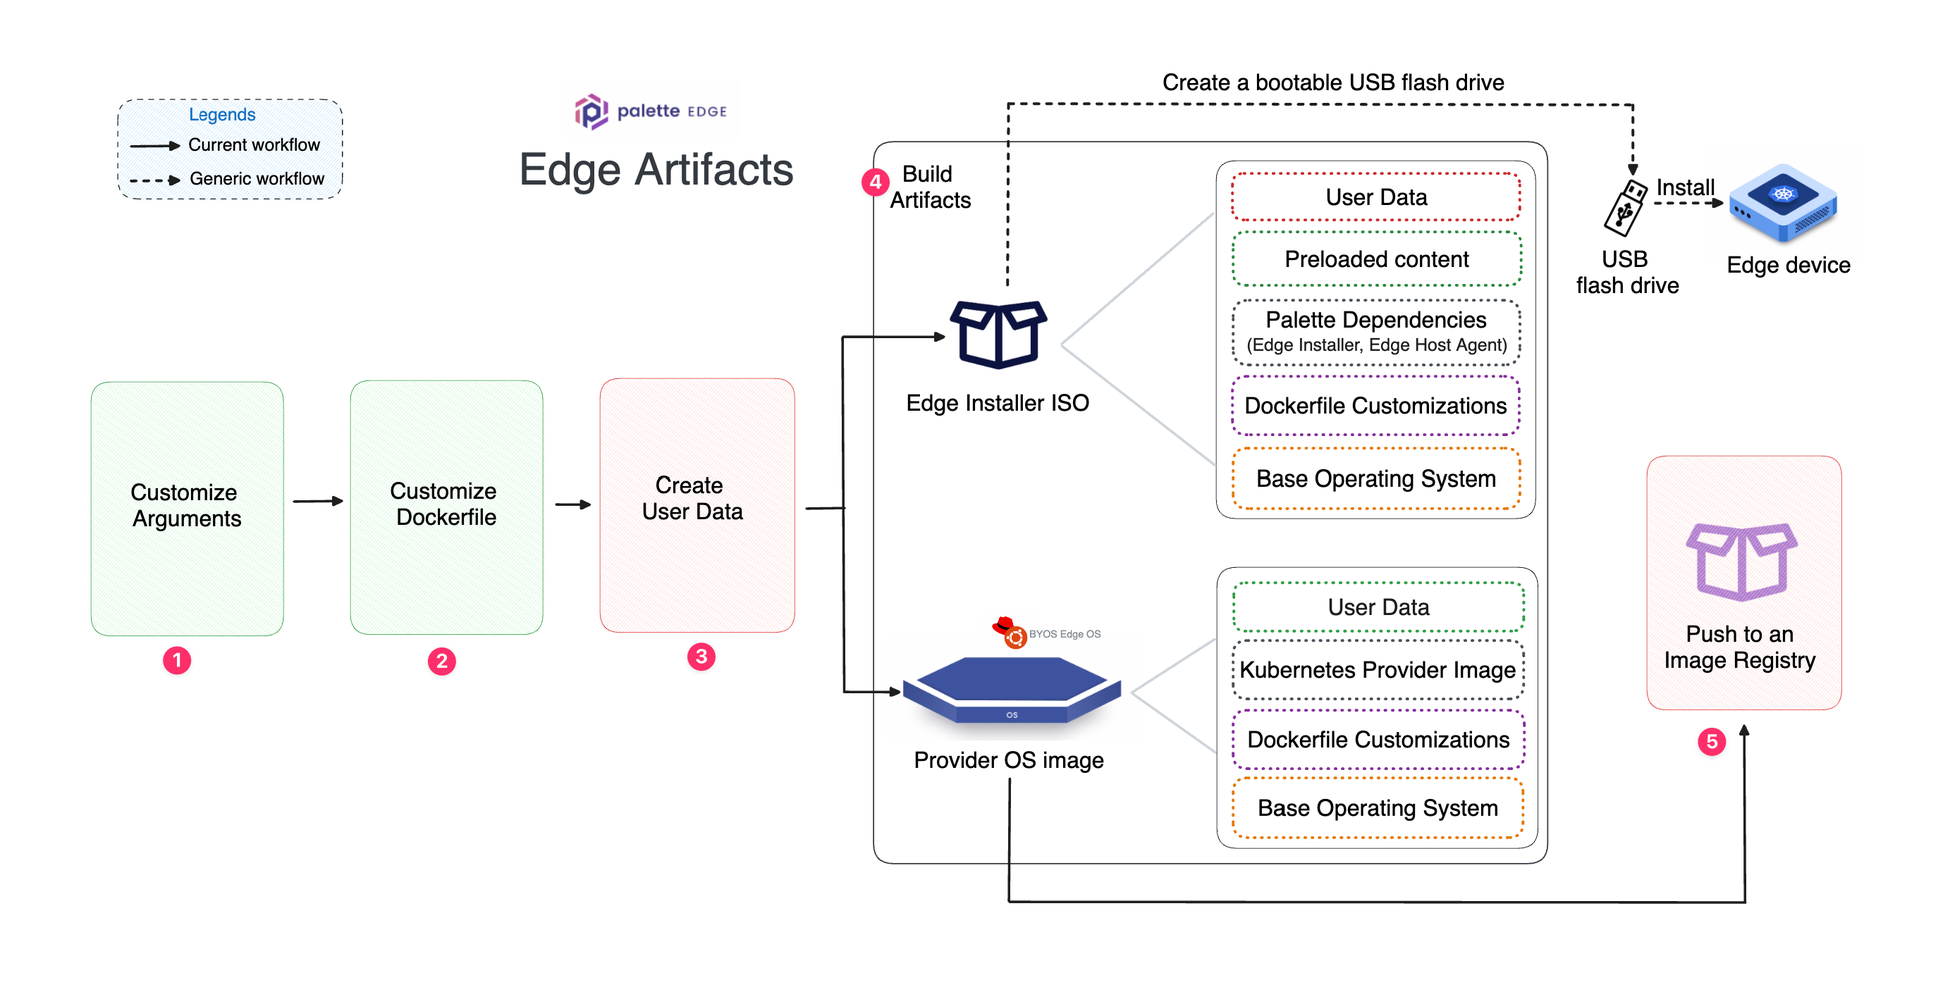
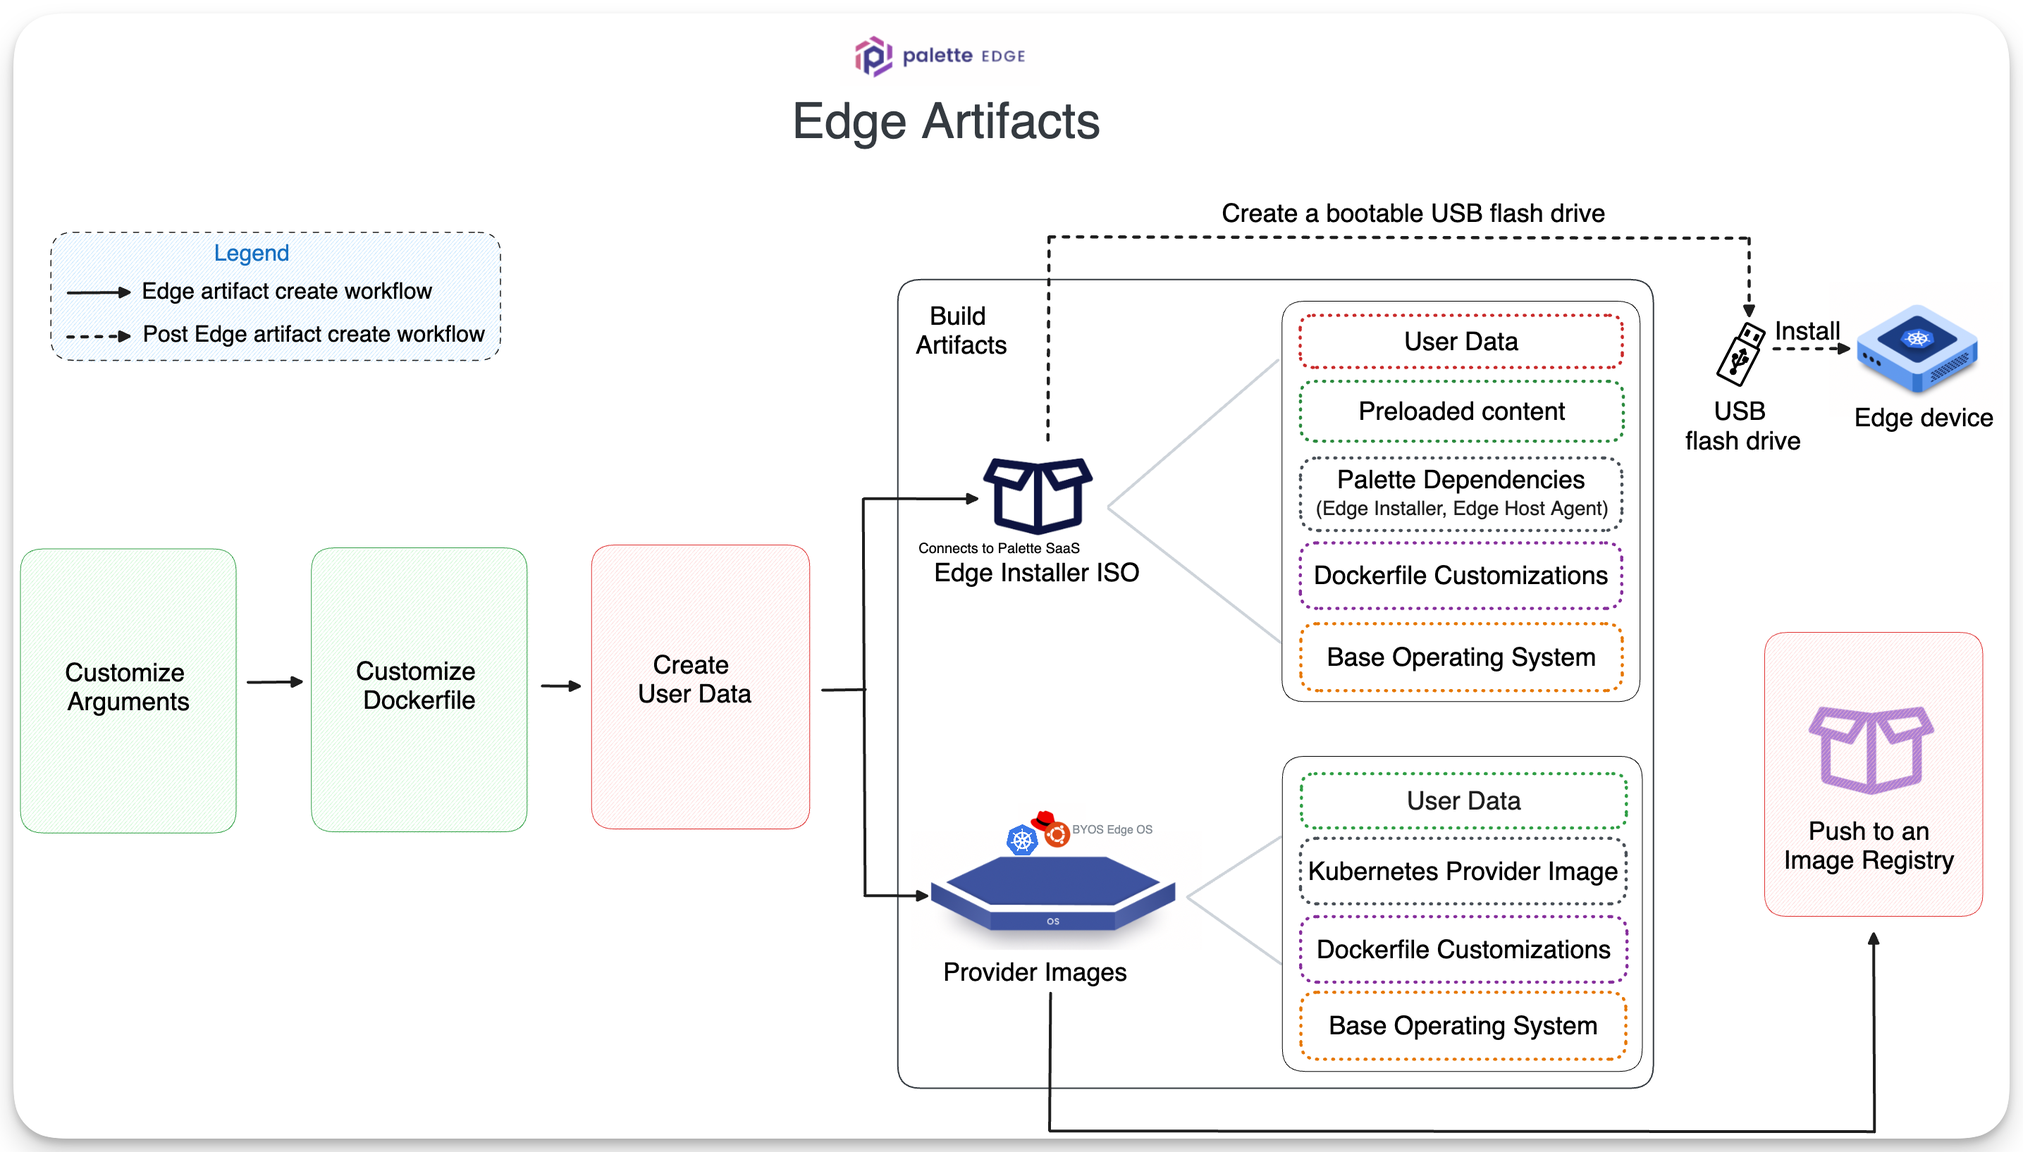
docs: concept clarification and language fixes

diff --git a/content/docs/04-clusters/03-edge/04-edgeforge-workflow/03.5-palette-canvos.md b/content/docs/04-clusters/03-edge/04-edgeforge-workflow/03.5-palette-canvos.md
@@ -1,7 +1,7 @@
 ---
 title: "Build Edge Artifacts"
 metaTitle: "Build Edge Artifacts"
-metaDescription: "Learn how to build Edge artifacts, such as the Edge Installer ISO and provider OS images using Spectro Cloud's CanvOS utility."
+metaDescription: "Learn how to build Edge artifacts, such as the Edge Installer ISO and provider images using Spectro Cloud's CanvOS utility."
 icon: ""
 hideToC: false
 fullWidth: false
@@ -22,13 +22,13 @@ Palette's Edge solution requires Edge hosts to be ready with the required depend
 * **Edge installer ISO image** - This bootable ISO image installs the necessary dependencies and configurations on a bare host machine. During installation, the host machine will boot from the Edge installer ISO, partition the disk, copy the image content to the disk, install the Palette Edge host agent and metadata, and perform several configuration steps. These configuration steps include registering the host with Palette, setting user privileges, and configuring network or security settings. 
 <br />
 
-* **Provider OS image** - This is a [Kairos](https://kairos.io/)-based image. This image installs an immutable Operating System (OS) and software dependencies compatible with a specific Kubernetes version at runtime, i.e., during the cluster deployment. A provider OS image is used in the OS layer while creating a cluster profile. 
+* **Provider Images** - These are [Kairos](https://kairos.io/)-based images containing the OS and the desired Kubernetes versions. These images install an immutable Operating System (OS) and software dependencies compatible with a specific Kubernetes version at runtime, i.e., during the cluster deployment. A provider image is used in the OS and the Kubernetes layer when creating a cluster profile. 
 
 
-In this guide, you will use Spectro Cloud's utility, [CanvOS](https://github.com/spectrocloud/CanvOS/blob/main/README.md), to build an Edge installer ISO image and multiple provider OS images for all the Palette-supported Kubernetes versions. It builds multiple provider OS images, so you can use either one that matches the Kubernetes version in your cluster profile. This guide assumes that your Palette supports K3s v1.24.6 and K3s v1.25.2, as an example, for deploying Edge clusters.  
+In this guide, you will use the utility, [CanvOS](https://github.com/spectrocloud/CanvOS/blob/main/README.md), to build an Edge installer ISO image and provider images for all the Palette-supported Kubernetes versions. The utility builds multiple provider images, so you can use either one that matches the desired Kubernetes version you want to use with your cluster profile.
 
 
-The diagram below shows the high-level steps to building the Edge artifacts and pushing the provider OS images to an image registry.
+The diagram below shows the high-level steps to building the Edge artifacts and pushing the provider images to an image registry.
 
 
 
@@ -37,16 +37,16 @@ The diagram below shows the high-level steps to building the Edge artifacts and 
 
 This guide presents two workflows - Basic and Advanced. 
 
-The basic workflow has minimal customizations and offers a quick start to build Edge artifacts. This workflow builds an Ubuntu based Edge installer ISO and provider OS images. It will also push the provider OS images to the default image registry, [ttl.sh](https://ttl.sh/). 
+The basic workflow has minimal customizations and offers a quick start to build Edge artifacts. This workflow builds an Ubuntu based Edge installer ISO and provider images. You will also push the provider images to the default image registry, [ttl.sh](https://ttl.sh/). 
 
-The advanced workflow uses more customization options. This workflow builds an openSUSE based Edge installer ISO and provider OS images. It will push the provider OS images to your Docker Hub image registry. 
+The advanced workflow uses more customization options. This workflow builds an openSUSE based Edge installer ISO and provider images. You will push the provider images to your Docker Hub image registry. 
 
 You can follow either of the workflows below that suits your use case.
 <br />
 
 <Tabs>
 
-<Tabs.TabPane tab="Basic" key="basic_create_artifacts">
+<Tabs.TabPane tab="Basic" key="basic_create_artifacts" >
 <br />
 
 ## Prerequisites
@@ -54,7 +54,7 @@ You can follow either of the workflows below that suits your use case.
 To complete this basic guide, you will need the following items:
 <br/>
 
-* A physical or virtual Linux machine with *AMD64* (also known as *x86_64*) processor architecture. You can issue the following command in the terminal to check your processor architecture. 
+* A physical or virtual Linux machine with *AMD64* (also known as *x86_64*) processor architecture to build the Edge artifacts. You can issue the following command in the terminal to check your processor architecture. 
   <br/>
 
   ```bash
@@ -130,7 +130,7 @@ Use the following instructions on your Linux machine to create all the required 
   <br />
 
 
-6. Issue the command below to save a custom image tag for the provider OS images in the `CUSTOM_TAG` variable. This guide uses `palette-learn` as an example. However, you can assign any lowercase and alphanumeric string to the `CUSTOM_TAG` variable. 
+6. Issue the command below to assign an image tag value that will be used when creating the provider images. This guide uses the value `palette-learn` as an example. However, you can assign any lowercase and alphanumeric string to the `CUSTOM_TAG` variable. 
 <br />
 
   ```bash
@@ -139,7 +139,7 @@ Use the following instructions on your Linux machine to create all the required 
   <br />
 
 7. Issue the command below to create the **.arg** file with the custom tag. It uses the default values for the remaining variables. You can refer to the existing **.arg.template** file to learn more about the available customizable variables.  
-<br />
+<br /> 
 
   ```bash
   cat << EOF > .arg
@@ -161,7 +161,7 @@ Use the following instructions on your Linux machine to create all the required 
   ```
   <br />
 
-8. Issue the command below to save your tenant registration token to a local variable. Replace `[your_token_here]` with your actual registration token. 
+8. Issue the command below to save your tenant registration token to an environment variable. Replace `[your_token_here]` with your actual registration token. 
 <br />
 
   ```bash
@@ -238,7 +238,7 @@ Use the following instructions on your Linux machine to create all the required 
   <br />
 
 
-11. List the Docker images to review the provider OS images created. By default, provider images for all the Palette's Edge-supported Kubernetes versions are created. You can identify the provider images by reviewing the image tag value you used in the  **.arg** file's `CUSTOM_TAG` variable. 
+11. List the Docker images to review the provider images created. By default, provider images for all the Palette's Edge-supported Kubernetes versions are created. You can identify the provider images by reviewing the image tag value you used in the  **.arg** file's `CUSTOM_TAG` variable. 
 <br />
 
   ```shell
@@ -254,7 +254,7 @@ Use the following instructions on your Linux machine to create all the required 
   <br />
 
 
-12. To use the provider OS images in your cluster profile, push them to the image registry mentioned in the **.arg** file. The current example and default behavior uses the [ttl.sh](https://ttl.sh/) image registry. This image registry is free to use and does not require a sign-up. Images pushed to *ttl.sh* are ephemeral and will expire after the 24 hrs time limit.  Use the following commands to push the provider OS image to the *ttl.sh* image registry.  
+12. To use the provider images in your cluster profile, push them to the image registry mentioned in the **.arg** file. The current example and default behavior uses the [ttl.sh](https://ttl.sh/) image registry. This image registry is free to use and does not require a sign-up. Images pushed to *ttl.sh* are ephemeral and will expire after the 24 hrs time limit.  Use the following commands to push the provider images to the *ttl.sh* image registry.  
   <br />
 
   ```bash
@@ -265,15 +265,16 @@ Use the following instructions on your Linux machine to create all the required 
 
   <WarningBox>
 
-  As a reminder, [ttl.sh](https://ttl.sh/) is a short-lived image registry. If you do not use these provider OS images in your cluster profile within 24 hours of pushing to *ttl.sh*, they will expire and must be re-pushed. Refer to the Advanced workflow in the current guide to learn how to use another registry, such as Docker Hub, and tag the docker images accordingly.
+  As a reminder, [ttl.sh](https://ttl.sh/) is a short-lived image registry. If you do not use these provider images in your cluster profile within 24 hours of pushing to *ttl.sh*, they will expire and must be re-pushed. Refer to the Advanced workflow in the current guide to learn how to use another registry, such as Docker Hub, and tag the docker images accordingly.
 
   </WarningBox>
   <br />
 
 
-13. After pushing the provider images to the image registry, switch to Palette to create a cluster profile, and add the [BYOS Edge OS](/integrations/byoos) pack to the OS layer. Add the following custom content within your OS layer configuration's `options` attribute so that the cluster profile can pull the provider OS image from the image registry. 
+13. After pushing the provider images to the image registry, open your web browser and navigate to [Palette](https://console.spectrocloud.com) to create a cluster profile, and add the [BYOS Edge OS](/integrations/byoos) pack to the OS layer. Add the following custom content within your OS layer configuration's `options` attribute so that the cluster profile can pull the provider image from the image registry. 
 
   The following `system.xxxxx` attribute values should be as same as what you defined in the **.arg** file earlier. If you used customized arguments in the **.arg** file to build the Edge artifacts, change these attributes' values, as applicable to you, before using them in your cluster profile.
+
   <br />
 
   ```yaml
@@ -286,12 +287,19 @@ Use the following instructions on your Linux machine to create all the required 
     system.customTag: palette-learn
     system.osVersion: 22
   ```
-  The following screenshot illustrates how to incorporate custom content into an OS layer of a cluster profile using the BYOS Edge OS pack.
+  The screenshot below shows you how to reference a provider image in a cluster profile by using the utility build output with the BYOOS pack.
 
   ![Screenshot of a sample cluster profile's OS layer ](/tutorials/palette-canvos/clusters_edge_palette-canvos_edit_profile.png)
   <br />
 
-14. Add the Kubernetes layer to your cluster profile after updating the OS layer, and choose the **Palette Optimized K3s** pack. The current build process created provider OS images compatible with two Kubernetes versions - K3s v1.24.6 and K3s v1.25.2. Therefore, choose one of these versions for the **Palette Optimized K3s** pack. 
+
+  <InfoBox>
+
+  The BYOOS pack's `system.uri` variable references the Kubernetes version selected in the cluster profile through the usage of the `{{ .spectro.system.kubernetes.version }}` [macro](/clusters/cluster-management/macros). This is how the provider images you created and pushed to a registry are tied to the OS and Kubernetes choices you selected or referenced in the **.arg** file.
+
+  </InfoBox>
+
+14. Add the Kubernetes layer to your cluster profile after updating the OS layer, and choose the **Palette Optimized K3s** pack. The current build process created provider images compatible with two Kubernetes versions - K3s v1.24.6 and K3s v1.25.2. Therefore, choose one of these versions for the **Palette Optimized K3s** pack. 
 
 
 15. Lastly, add the network layer to your cluster profile, and choose a Container Network Interface (CNI) pack that best fits your needs, such as Calico, Flannel, Cilium, or Custom CNI. 
@@ -319,7 +327,7 @@ You can validate the ISO image by creating a bootable USB flash drive using any 
 
 </Tabs.TabPane>
 
-<Tabs.TabPane tab="Advanced" key="advanced_create_artifacts">
+<Tabs.TabPane tab="Advanced" key="advanced_create_artifacts" identifier="advanced">
 <br />
 
 ## Prerequisites
@@ -327,7 +335,7 @@ You can validate the ISO image by creating a bootable USB flash drive using any 
 To complete this advanced guide, you will need the following items:
 <br />
 
-* A physical or virtual Linux machine with *AMD64* (also known as *x86_64*) processor architecture. You can issue the following command in the terminal to check your processor architecture. 
+* A physical or virtual Linux machine with *AMD64* (also known as *x86_64*) processor architecture to build the Edge artifacts. You can issue the following command in the terminal to check your processor architecture. 
   <br/>
 
   ```bash
@@ -431,7 +439,7 @@ Use the following instructions on your Linux machine to customize the arguments 
   Next, you will customize these variables to use during the build process. 
 <br />
 
-7. Issue the command below to save a custom image tag for the provider OS images in the `CUSTOM_TAG` variable. This guide uses `palette-learn` as an example. However, you can assign any lowercase and alphanumeric string to the `CUSTOM_TAG` variable. 
+7. Issue the command below to assign an image tag value that will be used when creating the provider images. This guide uses the value `palette-learn` as an example. However, you can assign any lowercase and alphanumeric string to the `CUSTOM_TAG` variable. 
 <br />
 
   ```bash
@@ -500,7 +508,7 @@ Use the following instructions on your Linux machine to customize the arguments 
   <br />  
   <WarningBox>
 
-  Using the `-y` option with the `sudo zypper install` command is critical to successfully build the images. The default behavior for package installations is to prompt the user for permission to install the package. A user prompt will cause the image ceration process to fail. This guidance applies to all dependencies you add through the **Dockerfile**. 
+  Using the `-y` option with the `sudo zypper install` command is critical to successfully build the images. The default behavior for package installations is to prompt the user for permission to install the package. A user prompt will cause the image cretion process to fail. This guidance applies to all dependencies you add through the **Dockerfile**. 
 
   </WarningBox>
   <br />
@@ -583,7 +591,7 @@ Use the following instructions on your Linux machine to customize the arguments 
   This command may take up to 15-20 minutes to finish depending on the resources of the host machine.
   <br />
 
-15. List the Docker images to review the provider OS images created. By default, provider images for all the Palette's Edge-supported Kubernetes versions are created. You can identify the provider images by reviewing the image tag value you used in the  **.arg** file's `CUSTOM_TAG` variable. 
+15. List the Docker images to review the provider images created. By default, provider images for all the Palette's Edge-supported Kubernetes versions are created. You can identify the provider images by reviewing the image tag value you used in the  **.arg** file's `CUSTOM_TAG` variable. 
 <br />
 
   ```shell
@@ -598,7 +606,7 @@ Use the following instructions on your Linux machine to customize the arguments 
   ```
   <br />
 
-16. To use the provider OS images in your cluster profile, push them to your image registry mentioned in the **.arg** file. Issue the following command to log in to Docker Hub. Provide your Docker ID and password when it prompts.
+16. To use the provider images in your cluster profile, push them to your image registry mentioned in the **.arg** file. Issue the following command to log in to Docker Hub. Provide your Docker ID and password when it prompts.
 <br />
 
   ```bash
@@ -611,7 +619,7 @@ Use the following instructions on your Linux machine to customize the arguments 
   ```
   <br />
 
-17. Use the following commands to push the provider OS images to the Docker Hub image registry you specified. Replace the `[DOCKER-ID]` in the command below with your Docker ID. 
+17. Use the following commands to push the provider images to the Docker Hub image registry you specified. Replace the `[DOCKER-ID]` and version numbers in the command below with your Docker ID and respective Kubernetes versions that the utility created. 
 <br />
 
   ```bash
@@ -620,7 +628,7 @@ Use the following instructions on your Linux machine to customize the arguments 
   ```
   <br />
 
-18. After pushing the provider images to the image registry, switch to Palette to create a cluster profile, and add the [BYOS Edge OS](/integrations/byoos) pack to the OS layer. Add the following custom content within your OS layer configuration's `options` attribute so that the cluster profile can pull the provider OS image from the image registry. 
+18. After pushing the provider images to the image registry, open your web browser and navigate to [Palette](https://console.spectrocloud.com) to create a cluster profile, and add the [BYOS Edge OS](/integrations/byoos) pack to the OS layer. Add the following custom content within your OS layer configuration's `options` attribute so that the cluster profile can pull the provider image from the image registry. 
 
   The following `system.xxxxx` attribute values should be as same as what you defined in the **.arg** file earlier. If you used customized arguments in the **.arg** file to build the Edge artifacts, change these attributes' values, as applicable to you, before using them in your cluster profile.
   <br />
@@ -634,12 +642,18 @@ Use the following instructions on your Linux machine to customize the arguments 
     system.peVersion: v3.4.3
     system.customTag: palette-learn
   ```
-  The following screenshot illustrates how to incorporate custom content into an OS layer of a cluster profile using the BYOS Edge OS pack.
+  The screenshot below shows you how to reference your provider OS image in a cluster profile by using the utility build output with the BYOOS pack. 
 
   ![Screenshot of a sample cluster profile's OS layer ](/tutorials/palette-canvos/clusters_edge_palette-canvos_edit_profile.png)
   <br />
 
-19. Add the Kubernetes layer to your cluster profile after updating the OS layer, and choose the **Palette Optimized K3s** pack. The current build process created provider OS images compatible with two Kubernetes versions - K3s v1.24.6 and K3s v1.25.2. Therefore, choose one of these versions for the **Palette Optimized K3s** pack. 
+  <InfoBox>
+
+  The BYOOS pack's `system.uri` variable references the Kubernetes version selected in the cluster profile through the usage of the `{{ .spectro.system.kubernetes.version }}` [macro](/clusters/cluster-management/macros). This is how the provider images you created and pushed to a registry are tied to the OS and Kubernetes choices you selected or referenced in the **.arg** file.
+
+  </InfoBox>
+
+19. Add the Kubernetes layer to your cluster profile after updating the OS layer, and choose the **Palette Optimized K3s** pack. The current build process created provider images compatible with two Kubernetes versions - K3s v1.24.6 and K3s v1.25.2. Therefore, choose one of these versions for the **Palette Optimized K3s** pack. 
 
 
 20. Lastly, add the network layer to your cluster profile, and choose a Container Network Interface (CNI) pack that best fits your needs, such as Calico, Flannel, Cilium, or Custom CNI. 
@@ -669,4 +683,4 @@ You can validate the ISO image by creating a bootable USB flash drive using any 
 
 # Next Steps
 
-After building the Edge artifacts, the next step is to use the Edge Installer ISO image to prepare your Edge host. Check out the [Prepare Edge Host for Installation](/clusters/edge/site-deployment/stage) guide to learn more about the next steps.
+After building the Edge artifacts and creating an Edge cluster profile, the next step is to use the Edge Installer ISO image to prepare your Edge host. Check out the [Prepare Edge Host for Installation](/clusters/edge/site-deployment/stage) guide to learn more about the next steps.

diff --git a/content/docs/02-getting-started/04-onboarding-workflow.md b/content/docs/02-getting-started/04-onboarding-workflow.md
@@ -18,14 +18,10 @@ import Tooltip from "shared/components/ui/Tooltip";
 
 # Palette Onboarding Workflow
 
-Palette has a well-organized product onboarding process to streamline user-product adoption. The two significant steps of our onboarding workflow are:
-
-* Product Tour
-
-* Palette Experience
+Palette offers a product tour to help you get familiar with the console and many of its key components.
 
 ## Product Tour
-Upon a successful sign in to our platform, we start the onboarding process with a product tour—an introduction to the platform, to familiarize the users with our Palette features.
+Upon a successful sign-in to our platform, we start the onboarding process with a product tour—an introduction to the platform, to familiarize the users with our Palette features.
 
 
 ## Start your Palette Experience
